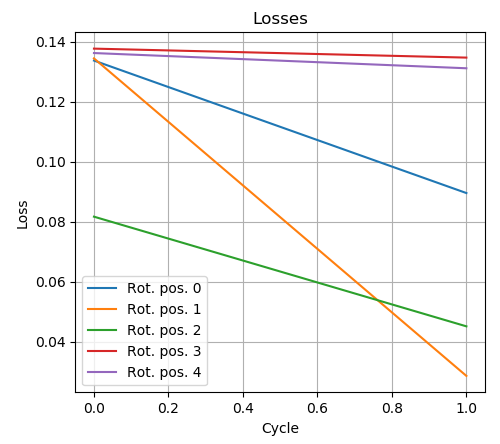
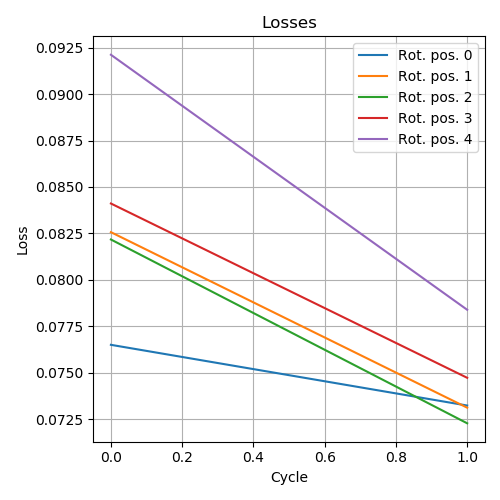
commit

diff --git a/code/train.py b/code/train.py
@@ -14,14 +14,13 @@ import utilities as util
 import models
 
 
-<<<<<<< HEAD
-params = {'name': 'FRNN_02',
+params = {'name': 'FRNN_03',
           'path2data': '../data/ID02_1h.mat',
           # model parameters ------------------------
           'channel_size': 10,
           'hidden_size': 10,
           'lambda': 0.5,
-          'nonlinearity': 'relu',
+          'nonlinearity': 'sigmoid',
           'bias': False,
           # train parameters -------------------------
           'sample_size': 1500,
@@ -33,22 +32,7 @@ params = {'name': 'FRNN_02',
 # Make rotation list
 ch_out_rotation = []
 for i in range(int(params['channel_size']/2)):
-    ch_out_rotation.append([i, i+int(params['channel_size']/2)])
-=======
-path2data = '../data/ID02_1h.mat'
-path2model = './FRNN_model.pth'
-nr_channels = 20
-hidden_size = 20
-nr_samples = 2000
-window_size = 50
-
-epochs = 1
-rotations = 6
-
-ch_out_rotation = []
-for i in range(int(nr_channels/2)):
-    ch_out_rotation.append([i, i + int(nr_channels/2)])
->>>>>>> f53bc03f771988b512beaef1957f2acd4594ebcd
+    ch_out_rotation.append([i, i + int(params['channel_size']/2)])
 
 # Load data
 X_train, X_test = util.data_loader(params)
@@ -101,6 +85,7 @@ ax.set_ylabel('Loss')
 ax.set_xlabel('Cycle')
 ax.grid()
 fig.tight_layout()
+plt.show()
 fig.savefig('../doc/figures/_losses.png')
 
 # Save model and params to file

diff --git a/code/utilities.py b/code/utilities.py
@@ -11,7 +11,7 @@ from scipy.io import loadmat
 from sklearn.preprocessing import MinMaxScaler
 
 
-def data_loader(params: dict, train_portion=0.8, normalization=True):
+def data_loader(params: dict, train_portion=0.8):
     """ Loads and prepares iEEG data for NN model.
 
     """
@@ -19,7 +19,7 @@ def data_loader(params: dict, train_portion=0.8, normalization=True):
     data = data_mat['EEG'][:params['channel_size'], :params['sample_size']].transpose()
 
     # Normalization
-    if normalization:
+    if params['normalization']:
         sc = MinMaxScaler(feature_range=(-1, 1))
         sc.fit(data)
         data = sc.transform(data)
@@ -47,8 +47,8 @@ def plot_weights(W: float, params: dict, vmax=1, linewidth=.5, absolute=False, s
     """
     vmin = -vmax
     cmap = 'RdBu'
-    hticklabels = np.arange(params['channel_size'], W.shape[0], 1)
     ch = params['channel_size']
+    hticklabels = np.arange(ch, W.shape[0], 1)
 
     if absolute:
         vmin = 0

diff --git a/code/evaluation.py b/code/evaluation.py
@@ -12,31 +12,21 @@ import pickle
 import utilities as util
 import models
 
-# Load parameters
-params = pickle.load(open('../models/FRNN_02.pkl', 'rb'))
 
-<<<<<<< HEAD
+# Load parameters
+params = pickle.load(open('../models/FRNN_03.pkl', 'rb'))
+
 # Load data
 X_train, X_test = util.data_loader(params)
-=======
-path2data = '../data/ID02_1h.mat'
-path2model = './FRNN_model.pth'
-nr_channels = 20
-hidden_size = 20
-nr_samples = 2000
-window_size = 50
-
-X_train, X_test = util.data_loader(path=path2data, nr_channels=nr_channels, nr_samples=nr_samples,
-                                   window_size=window_size)
->>>>>>> f53bc03f771988b512beaef1957f2acd4594ebcd
 
 # Get trained model
 model = models.FRNN(params)
 model.load_state_dict(torch.load('../models/' + params['name'] + '.pth'))
 
+# Evaluate model
 model.eval()
 
-ch = [6, 11, 18]
+ch = [0, 5, 9]
 model.make_gate(ch)
 Y_preds = []
 Y = []
